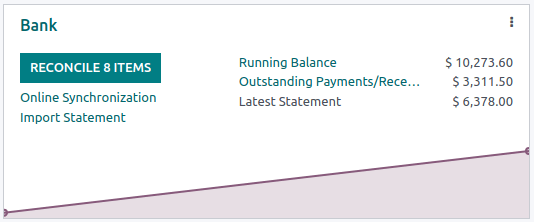
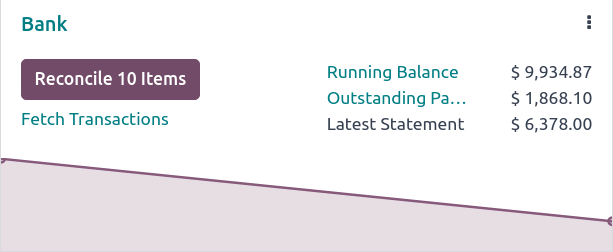
[IMP] accounting: reconciliation
Updated screenshots and typos for 16.3

Forward to 16.4:
- Change: Dashboard links are improved, and audit features can be found
  in the journal items view.

closes odoo/documentation#6233

X-original-commit: a31bcec3ba8adfaa6cb36b33a46ecccd7e43b6fb

diff --git a/content/applications/finance/accounting/bank/reconciliation.rst b/content/applications/finance/accounting/bank/reconciliation.rst
@@ -69,13 +69,13 @@ Transactions can be matched automatically with the use of :doc:`reconciliation m
    :ref:`matching existing entries <reconciliation/existing-entries>`, :ref:`manual operations
    <reconciliation/manual-operations>`, :ref:`batch payments <reconciliation/batch-payments>`, and
    :ref:`reconciliation model buttons <reconciliation_models_button>`.
-#. If the resulting entry isn't fully balanced, balance it by adding another existing counterpart
+#. If the resulting entry is not fully balanced, balance it by adding another existing counterpart
    entry or writing it off with a :ref:`manual operation <reconciliation/manual-operations>`.
 #. Click the :guilabel:`Validate` button to confirm the reconciliation and move to the next
    transaction.
 
 .. tip::
-   If you aren't sure how to reconcile a particular transaction and would like to deal with it
+   If you are not sure how to reconcile a particular transaction and would like to deal with it
    later, use the :guilabel:`To Check` button instead. All transactions marked as :guilabel:`To
    Check` can be displayed using the :guilabel:`To Check` filter.
 
@@ -112,7 +112,7 @@ has a search bar that allows you to search for specific batch payments.
 Manual operations
 -----------------
 
-If there isn't an existing entry to match the selected transaction, you may instead wish to
+If there is not an existing entry to match the selected transaction, you may instead wish to
 reconcile the transaction manually by choosing the correct account and amount. Then, complete any
 of the relevant optional fields.
 
@@ -122,6 +122,10 @@ of the relevant optional fields.
    open balance registered on the Account Receivable by default. You can choose another
    account by clicking on the new line in the resulting entry section and selecting the
    :guilabel:`Account` to record the open balance.
+
+.. note::
+   Lines are silently reconciled unless a write-off entry is required, which launches a
+   reconciliation wizard.
 
    .. image:: reconciliation/fully-paid.png
       :alt: Click on fully paid to manually set an invoice as entirely paid.
